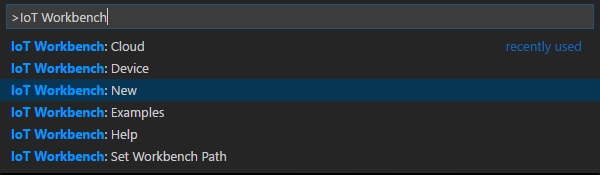
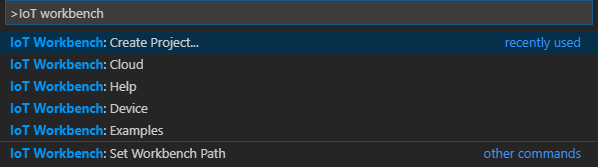
Prepare for the release of 0.1.14

diff --git a/docs/iot-button/teXXmo_IoT_button_get_started.md b/docs/iot-button/teXXmo_IoT_button_get_started.md
@@ -30,7 +30,7 @@ You need to make sure the following steps are finished before beginning the proc
 # Step 2: Create IoT Project
 
 1. Open Visual Studio Code and open an empty folder.
-1. Press **F1** or **Ctrl + Shift + P** in Visual Studio Code and select **IoT Workbench:New**.
+1. Press **F1** or **Ctrl + Shift + P** in Visual Studio Code and select **IoT Workbench: Create Project...** .
 1. Select the device of **IoT button teXXmo - Microsoft Azure Developer Kit**.
 ![CreateProject](media/iot-button-get-started/iot_button_create.jpg)
 1. From the project template, please select **With Azure Functions**. With this template, when teXXmo IoT button is clicked, a telemetry will be sent to IoT Hub and Azure Functions will be triggered to execute the code.

diff --git a/README.md b/README.md
@@ -80,7 +80,7 @@ Here are a set of tutorials that will help you get started:
 
 | Command | Description |
 | --- | --- |
-| `IoT Workbench: New`  | Create new IoT Workbench projects. |
+| `IoT Workbench: Create Project...`  | Create new IoT Workbench projects. |
 | `IoT Workbench: Examples` | Load existing examples of IoT Workbench project. |
 | `IoT Workbench: Cloud` | Provison and deploy Azure services. |
 | `IoT Workbench: Device`  | Compile, upload device code and config device settings. |

diff --git a/docs/iot-devkit/devkit-stream-analytics-cosmos-db.md b/docs/iot-devkit/devkit-stream-analytics-cosmos-db.md
@@ -16,7 +16,7 @@ An active Azure subscription. If you do not have one, you can register via one o
 
 ## Create a New Project
 
-Use `F1` or `Ctrl+Shift+P` (macOS: `Cmd+Shift+P`) to open the command palette, type **IoT Workbench**, and then select **IoT Workbench: New**.
+Use `F1` or `Ctrl+Shift+P` (macOS: `Cmd+Shift+P`) to open the command palette, type **IoT Workbench**, and then select **IoT Workbench: Create Project...**.
 
 ![IoT Workbench: New](media/iot-workbench-new-cmd.png)
 

diff --git a/CHANGELOG.md b/CHANGELOG.md
@@ -2,6 +2,15 @@
 All notable changes to the "vscode-iot-workbench" extension will be documented in this file.
 
 ## Version 0.1.13
+- Release date: Nov. 16, 2018
+
+### Fixed
+- Use C# library in Azure Functions for IoT DevKit examples.
+- Refactor the flow of creating a new project.
+- Fix the device connection string setting problem in MacOS.
+- Upgrade to VS Code's webview API
+
+## Version 0.1.13
 - Release date: Nov. 9, 2018
 
 ### Fixed
